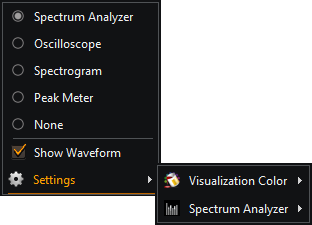
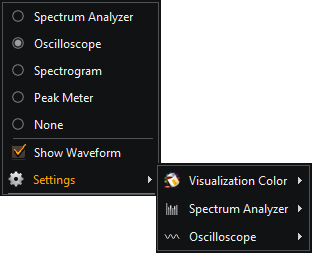
User Guide

diff --git a/docs/index_el.md b/docs/index_el.md
@@ -926,6 +926,10 @@ ___
   - Το υπό-μενού **Αριθμός στηλών**, μας επιτρέπει να επιλέξουμε τον αριθμό των γραμμών που θα χρησιμοποιηθούν από τον αναλυτή φάσματος. Η προεπιλογή είναι 32, αλλά μπορούμε να επιλέξουμε μια τιμή μεταξύ 24, 32, 40, 48 και 56.
   - Το υπό-μενού **Διατήρηση κορυφών** ενεργοποιεί (ή όχι) την ύπαρξη κορυφών του αναλυτή.
   - Το υπό-μενού **Βελτιστοποίηση ύψους** ενεργοποιεί (ή όχι) τη μεγιστοποίηση του αναλυτή ανεξάρτητα από την ένταση της κυματομορφής στο συγκεκριμένο σημείο.
+- Το μενού **Παλμογράφος**, με το υπό-μενού **Μεγέθυνση**, όπου μπορούμε να επιλέξουμε διαφορετική μεγέθυνση του παραθύρου της δειγματοληψίας του:
+  - Χαμηλή
+  - Κανονική
+  - Μεγάλη
 
 ### Μενού Συμπαγούς προβολής
 

diff --git a/docs/index.md b/docs/index.md
@@ -958,6 +958,10 @@ The **Settings** sub-menu contains the following options:
   - The **Number of Bars** sub-menu, that let us select the number of bars that will be used from the Spectrum Analyzer. The default is 32, but we can select a value between 24, 32, 40, 48 and 56.
   - The **Peak hold** sub-menu, that let us enable/disable the peak hold of the Spectrum Analyzer.
   - The **Optimize height** sub-menu, that let us enable/disable the height optimization, i.e. if the bar height would be normalized to the maximum level, regardless of the track's waveform height.
+- The **Oscilloscope** menu, with the **Zoom level** sub-menu, that can select between different zoom levels of its sample window:
+  - Low Zoom
+  - Normal Zoom
+  - High Zoom
 
 ### Compact View menu
 
